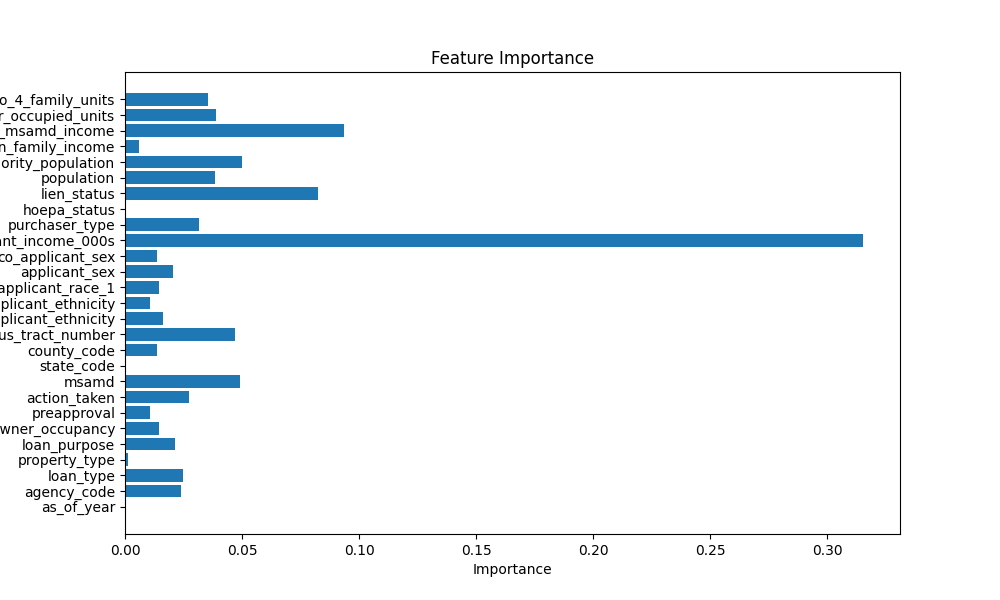
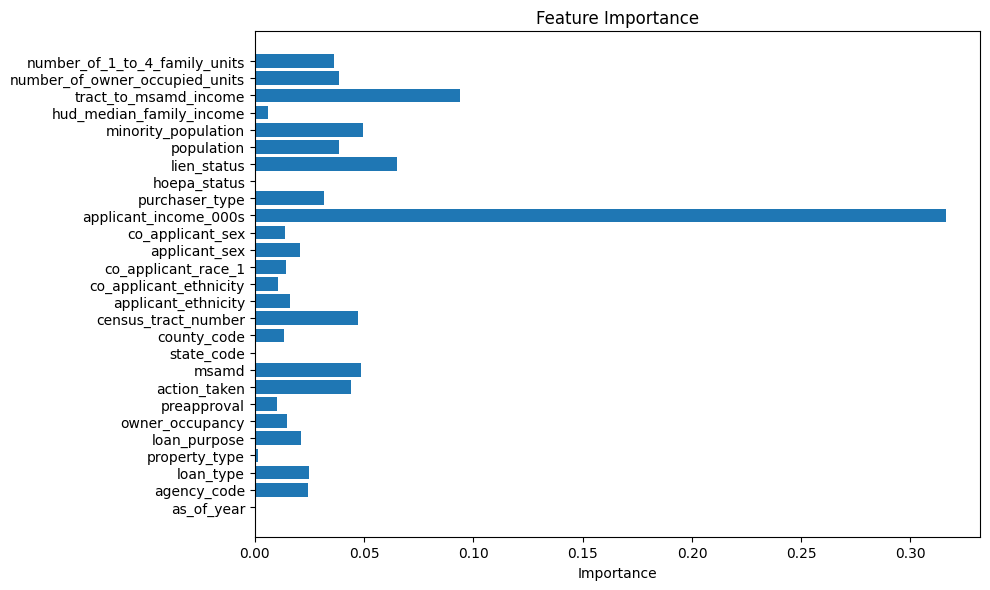
Update modeling logic and refresh output visualizations

Changed region(s): [[0.0, 0.0915, 0.9697, 0.9763], [0.5455, 0.0, 0.7273, 0.061], [0.9091, 0.9153, 0.9394, 0.9458]]

diff --git a/main.py b/main.py
@@ -136,15 +136,6 @@ def main():
             print(rates)
 
     # Conclusion
-    print("\n--- Conclusion ---")
-    print("This analysis explored mortgage lending data from 2017 New Jersey HMDA records.")
-    print("Key findings:")
-    print("- Decision Tree and Logistic Regression trained without the leaky loan_amount feature; accuracy reflects true generalization.")
-    print("- KNN provides a non-parametric baseline for comparison.")
-    print("- Feature importance revealed loan amount and applicant income as key predictors.")
-    print("- Fairness analysis revealed potential disparities in predicted default rates across racial groups.")
-    print("Limitations: Synthetic target variable (loan > 200K), limited features, no temporal validation, class imbalance.")
-    print("Recommendations: Use real default data, incorporate more features, deploy model with continuous bias monitoring.")
     print()
     print()
 

diff --git a/modeling.py b/modeling.py
@@ -59,7 +59,8 @@ def plot_feature_importance(model, X_train):
         plt.barh(features, importances)
         plt.xlabel('Importance')
         plt.title('Feature Importance')
-        plt.savefig('feature_importance.png')
+        plt.tight_layout()
+        plt.savefig('feature_importance.png', bbox_inches='tight')
         print("Feature importance plot saved to feature_importance.png")
         plt.close()
 